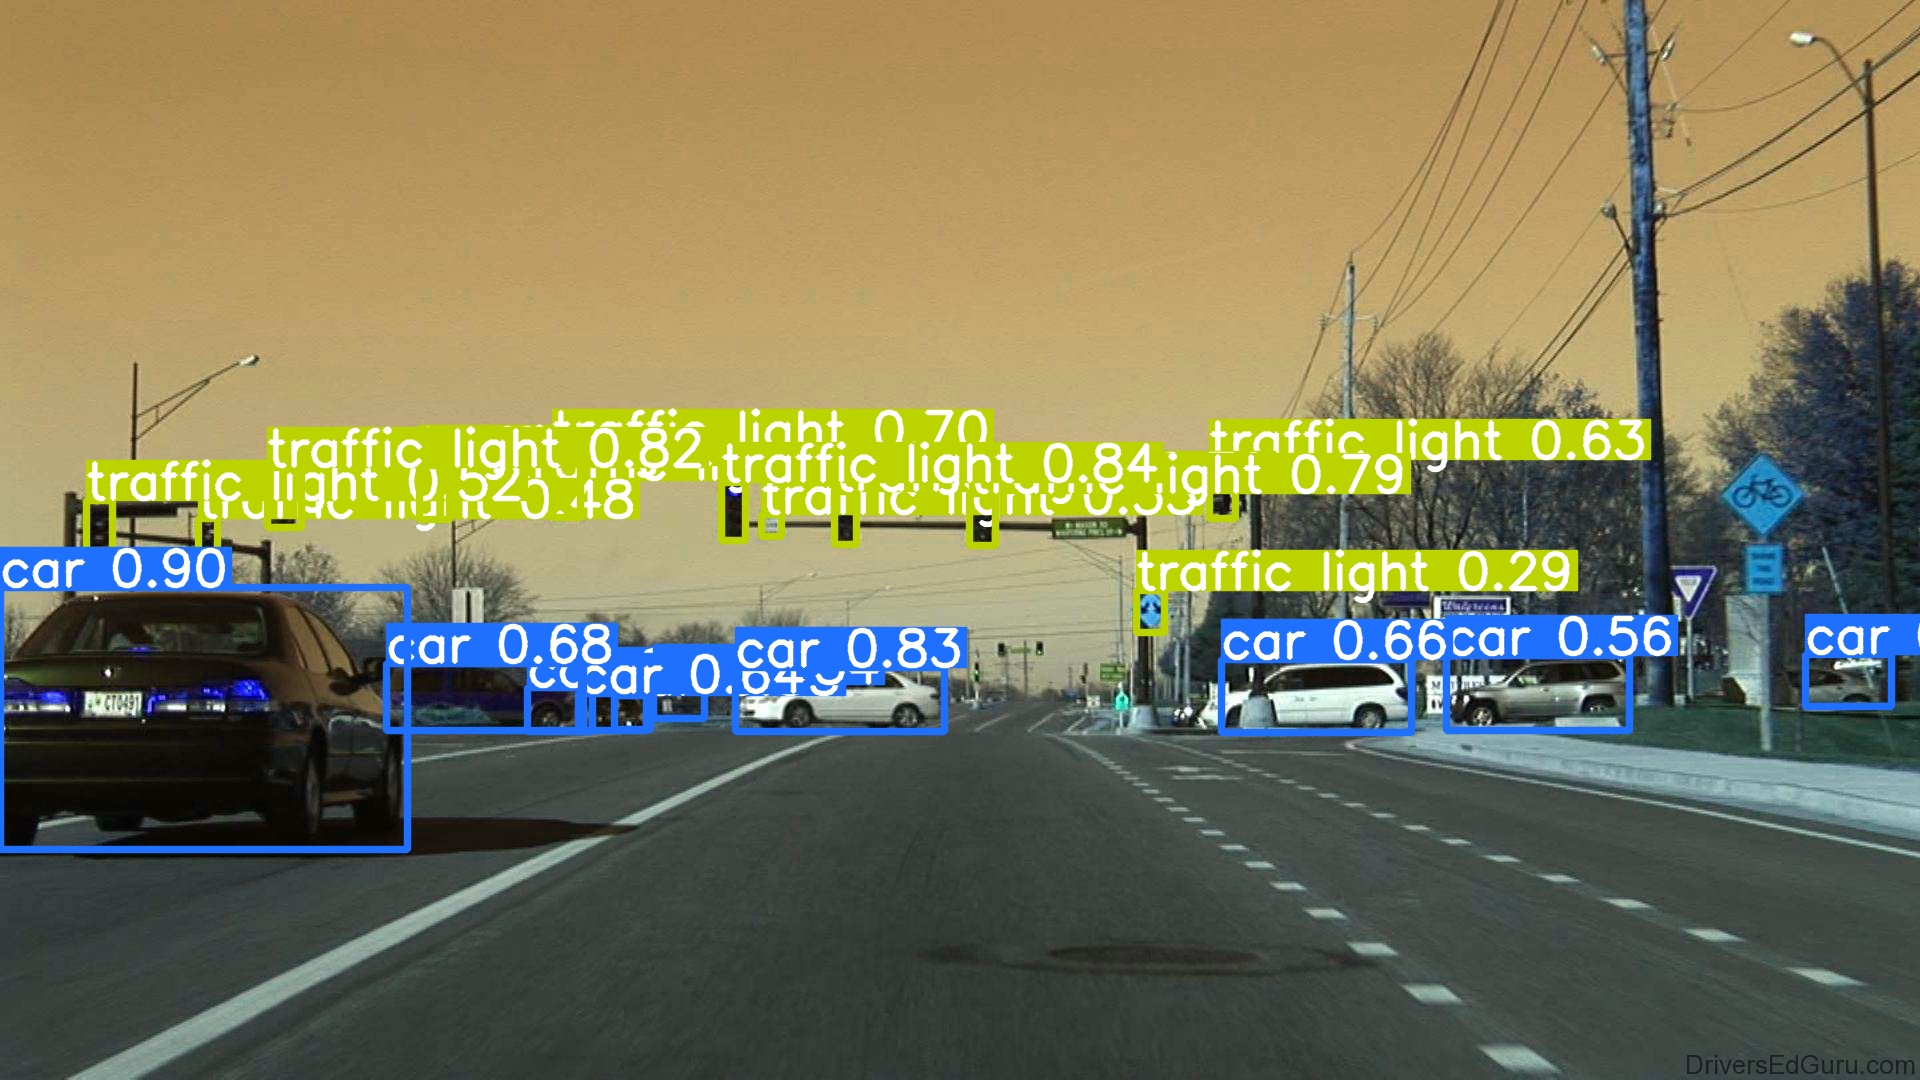
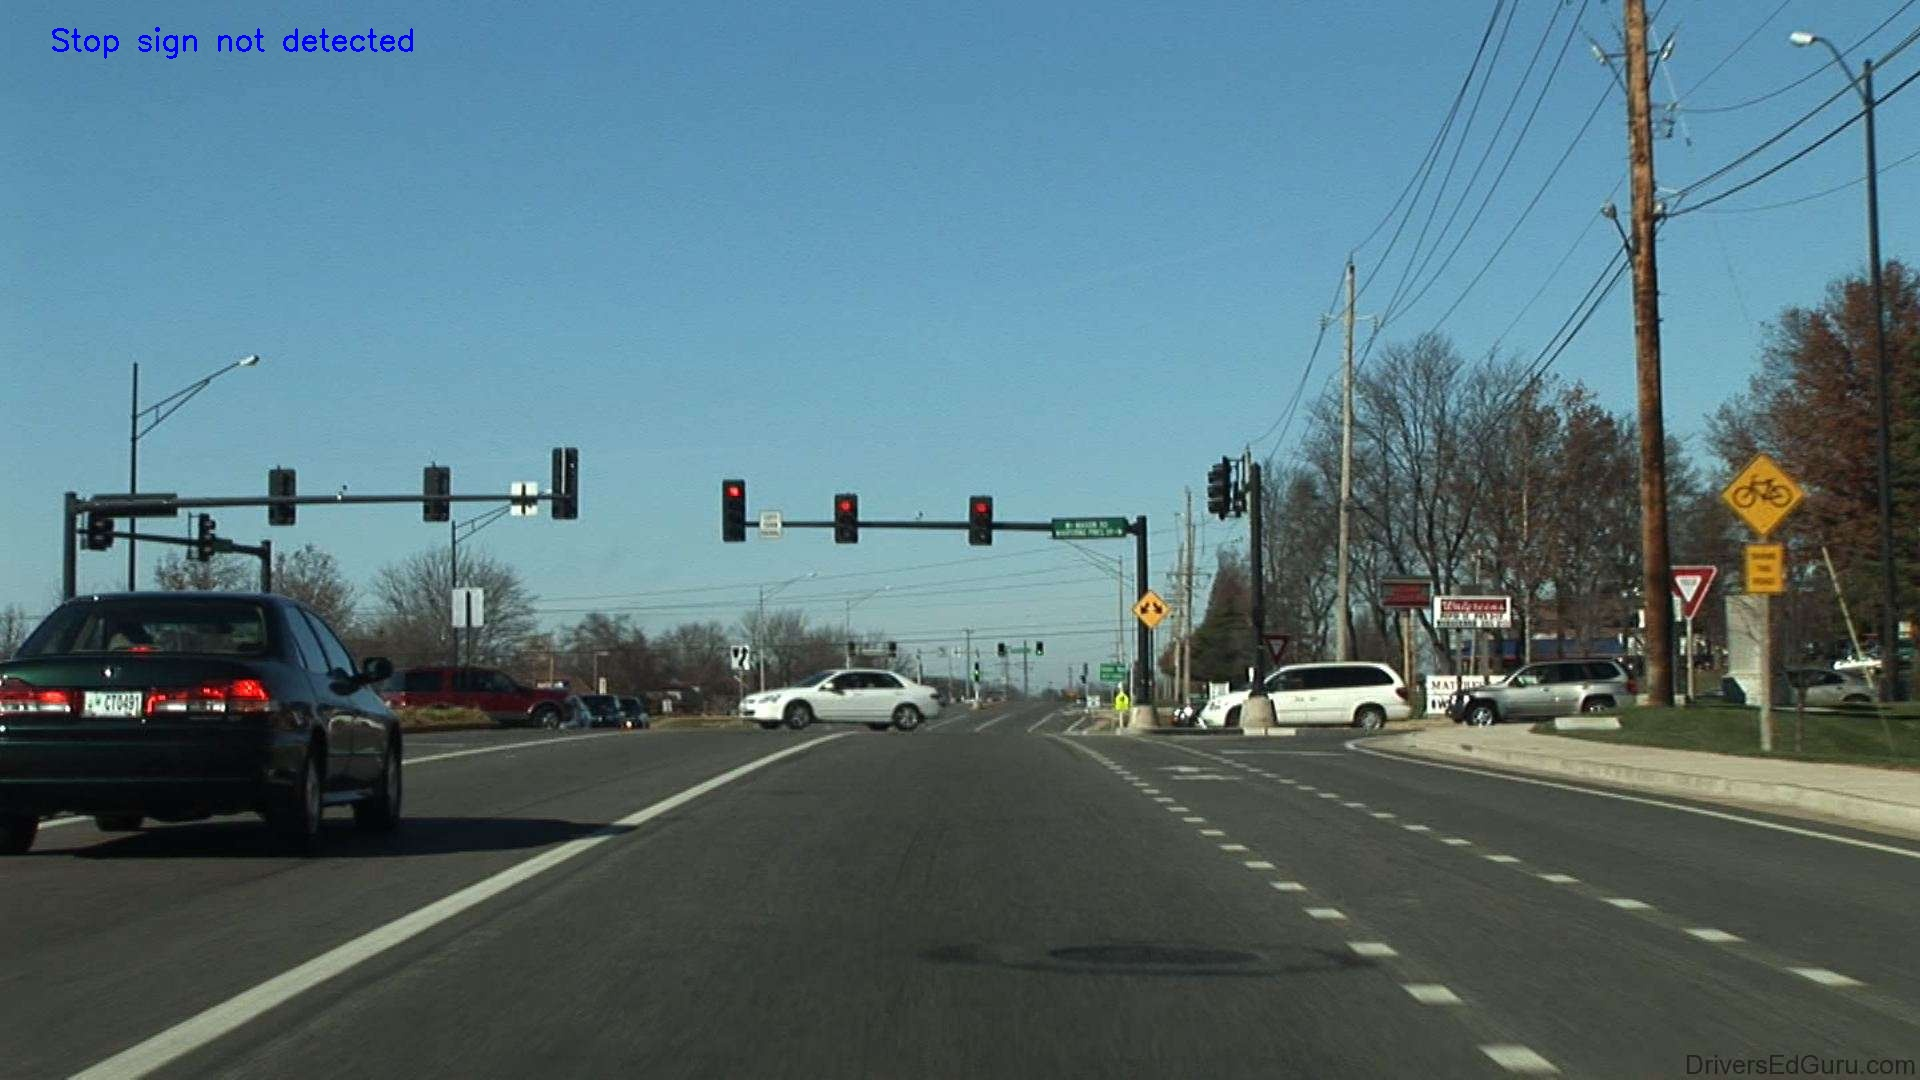
done

diff --git a/main.py b/main.py
@@ -20,18 +20,24 @@ def draw_boxes(model, frame, results,yoga_pose=None,score=None):
         if y2>710:
             y2=700
         cv2.rectangle(frame,(int(x1),int(y1)),(int(x2),int(y2)),(255,0,0),2)
-        print(x1,y1,x2,y2,confidence,label)
+        # print(x1,y1,x2,y2,confidence,label)
         cv2.putText(frame,f'{label} ({confidence:.2f}) is doing the {yoga_pose} pose ({score})',(int(x1),int(y1)),cv2.FONT_HERSHEY_SIMPLEX,1,(255,0,0),2)
     return frame
         
 if __name__=='__main__':
     model = load_yolo()
-    load_img = "not_stop/132.jpg"
-    # load_img = "not_stop/102.jpg"
+    load_img = "stop/14.jpg"
+    img = cv2.imread(load_img)
     results = model(load_img)
-    cv2.imwrite('outputs/output7.jpg', results.render()[0])
     # results.show()
+    labels = list()
     for obj in results.xyxy[0]:
         confidence = obj[4].item() * 100
         label = model.names[int(obj[5])]
-        print(f'{label}: {confidence:.2f}%')
+        labels.append(label)
+    if 'stop sign' in labels:
+        cv2.putText(img,'Stop sign detected',(50,50),cv2.FONT_HERSHEY_SIMPLEX,1,(255,0,0),2)
+    else:
+        cv2.putText(img,'Stop sign not detected',(50,50),cv2.FONT_HERSHEY_SIMPLEX,1,(255,0,0),2)
+    cv2.imwrite('outputs/output11.jpg', img)
+    
